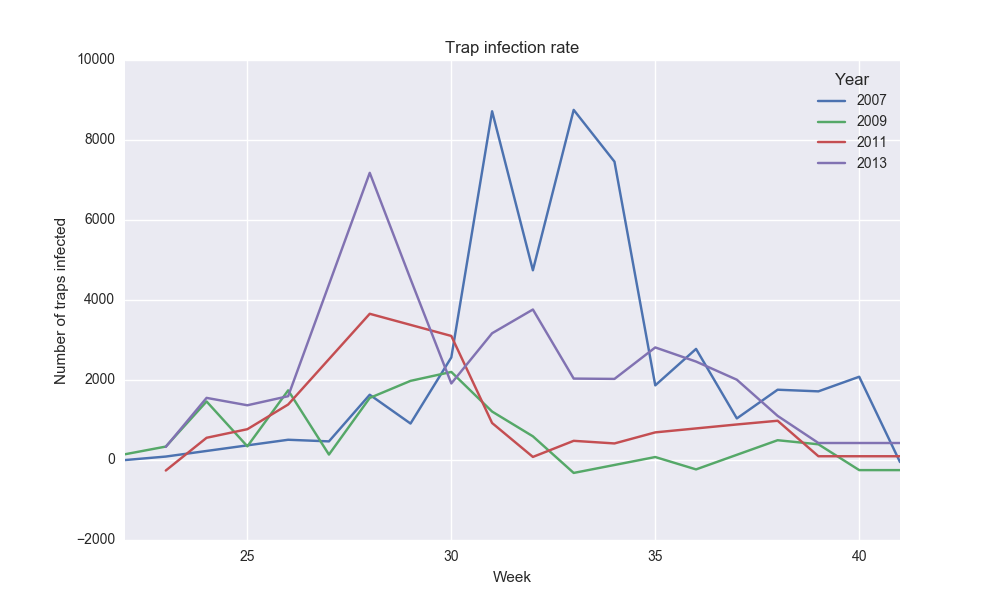
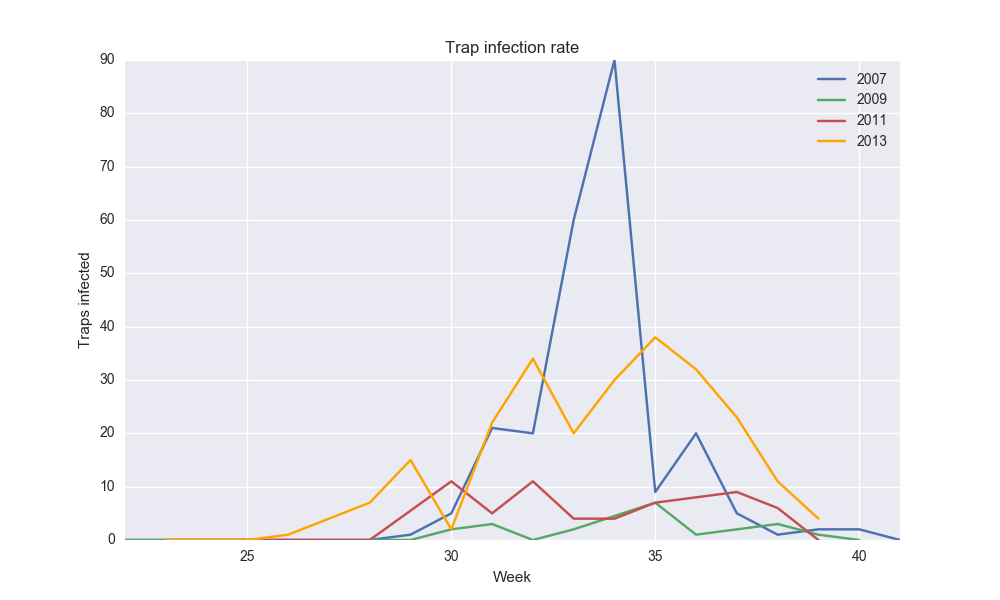
Fixed the plot for trap infection rate

diff --git a/WestNile/Visualization.py b/WestNile/Visualization.py
@@ -32,6 +32,7 @@ plot = sns.regplot('Longitude', 'Latitude', X_true, fit_reg=False)
 
 plotX = X_true['Longitude'].values
 plotY = X_true['Latitude'].values
+plotZ = X_true['WnvPresent'].values
 
 plotX1 = X_true[X_true.Year == 2007]['Longitude'].values
 plotY1 = X_true[X_true.Year == 2007]['Latitude'].values
@@ -53,44 +54,45 @@ plotY4 = X_true[X_true.Year == 2013]['Latitude'].values
 # of the map.
 # lat_ts is the latitude of true scale.
 # resolution = 'c' means use crude resolution coastlines.
-m = Basemap(projection='merc', llcrnrlat=41.599501, urcrnrlat=42.109914, llcrnrlon=-88.034279, urcrnrlon=-87.296822,
-            lat_ts=20, resolution='f')
-m.drawcoastlines()
-# draw coastlines.
-# draw a boundary around the map, fill the background.
-# this background will end up being the ocean color, since
-# the continents will be drawn on top.
-plotX1, plotY1 = m(plotX1, plotY1)
-plotX2, plotY2 = m(plotX2, plotY2)
-plotX3, plotY3 = m(plotX3, plotY3)
-plotX4, plotY4 = m(plotX4, plotY4)
-m.drawmapboundary(fill_color='blue')
-# fill continents, set lake color same as ocean color.
-m.fillcontinents(color='lightgrey',lake_color='blue', zorder=0)
-m.drawparallels(np.arange(41.5, 42.5, .1))
-m.drawmeridians(np.arange(-88., -87.3, .1))
-m.scatter(plotX1, plotY1, c='yellow', marker="o", alpha=1)
-m.scatter(plotX2, plotY2, c='purple', marker="o", alpha=1)
-m.scatter(plotX3, plotY3, c='green', marker="o", alpha=1)
-m.scatter(plotX4, plotY4, c='red', marker="o", alpha=1)
-fig = plot.get_figure()
-fig.savefig('map.png')
+# m = Basemap(projection='merc', llcrnrlat=41.599501, urcrnrlat=42.109914, llcrnrlon=-88.034279, urcrnrlon=-87.296822,
+#             lat_ts=20, resolution='f')
+# m.drawcoastlines()
+# # draw coastlines.
+# # draw a boundary around the map, fill the background.
+# # this background will end up being the ocean color, since
+# # the continents will be drawn on top.
+# plotX1, plotY1 = m(plotX1, plotY1)
+# plotX2, plotY2 = m(plotX2, plotY2)
+# plotX3, plotY3 = m(plotX3, plotY3)
+# plotX4, plotY4 = m(plotX4, plotY4)
+# m.drawmapboundary(fill_color='blue')
+# # fill continents, set lake color same as ocean color.
+# m.fillcontinents(color='lightgrey',lake_color='blue', zorder=0)
+# m.drawparallels(np.arange(41.5, 42.5, .1))
+# m.drawmeridians(np.arange(-88., -87.3, .1))
+# m.scatter(plotX1, plotY1, c='yellow', marker="o", alpha=1)
+# m.scatter(plotX2, plotY2, c='purple', marker="o", alpha=1)
+# m.scatter(plotX3, plotY3, c='green', marker="o", alpha=1)
+# m.scatter(plotX4, plotY4, c='red', marker="o", alpha=1)
+# fig = plot.get_figure()
+# fig.savefig('map.png')
+#
+# print("Here")
 
-print("Here")
-
-m = Basemap(projection='merc', llcrnrlat=41.599501, urcrnrlat=42.109914, llcrnrlon=-88.034279, urcrnrlon=-87.296822,
-            lat_ts=20, resolution='f')
-m.drawcoastlines()
-# draw coastlines.
-# draw a boundary around the map, fill the background.
-# this background will end up being the ocean color, since
-m.drawparallels(np.arange(41.5, 42.5, .1))
-m.drawmeridians(np.arange(-88., -87.3, .1))
-m.pcolormesh(plotX, plotY, interpolation='none', cmap='Oranges')
-fig = plot.get_figure()
-fig.savefig('heatmap.png')
-
-print("Here")
+# m = Basemap(projection='merc', llcrnrlat=41.599501, urcrnrlat=42.109914, llcrnrlon=-88.034279, urcrnrlon=-87.296822,
+#             lat_ts=20, resolution='f')
+# m.drawcoastlines()
+# # draw coastlines.
+# # draw a boundary around the map, fill the background.
+# # this background will end up being the ocean color, since
+# m.drawparallels(np.arange(41.5, 42.5, .1))
+# m.drawmeridians(np.arange(-88., -87.3, .1))
+# plotX, plotY = m(plotX, plotY)
+# m.pcolormesh(plotX, plotY, plotZ, interpolation='none', cmap='Oranges')
+# fig = plot.get_figure()
+# fig.savefig('heatmap.png')
+#
+# print("Here")
 
 X_2007 = X_true[X_true.Year == 2007]
 X_2009 = X_true[X_true.Year == 2009]
@@ -102,6 +104,11 @@ weekly['2007'] = X_2007.groupby("Week").sum().ix[:,['WnvPresent']]
 weekly['2009'] = X_2009.groupby("Week").sum().ix[:,['WnvPresent']]
 weekly['2011'] = X_2011.groupby("Week").sum().ix[:,['WnvPresent']]
 weekly['2013'] = X_2013.groupby("Week").sum().ix[:,['WnvPresent']]
-#ax = weekly_checks_years.interpolate().plot(title='Trap infection rate', figsize=(10, 6))
-#ax.set_ylabel('Percentage traps infected')
-#plt.savefig('positive_trap_rate.png')
+for i in weekly:
+    weekly[i].rename(columns={'WnvPresent': i}, inplace=True)
+ax = weekly['2007'].plot.line(title='Trap infection rate', figsize=(10, 6))
+ax = weekly['2009'].plot.line(ax=ax)
+ax = weekly['2011'].plot.line(ax=ax)
+ax = weekly['2013'].plot.line(ax=ax, c="orange")
+ax.set_ylabel('Traps infected')
+ax.get_figure().savefig('positive_trap_rate.png')
